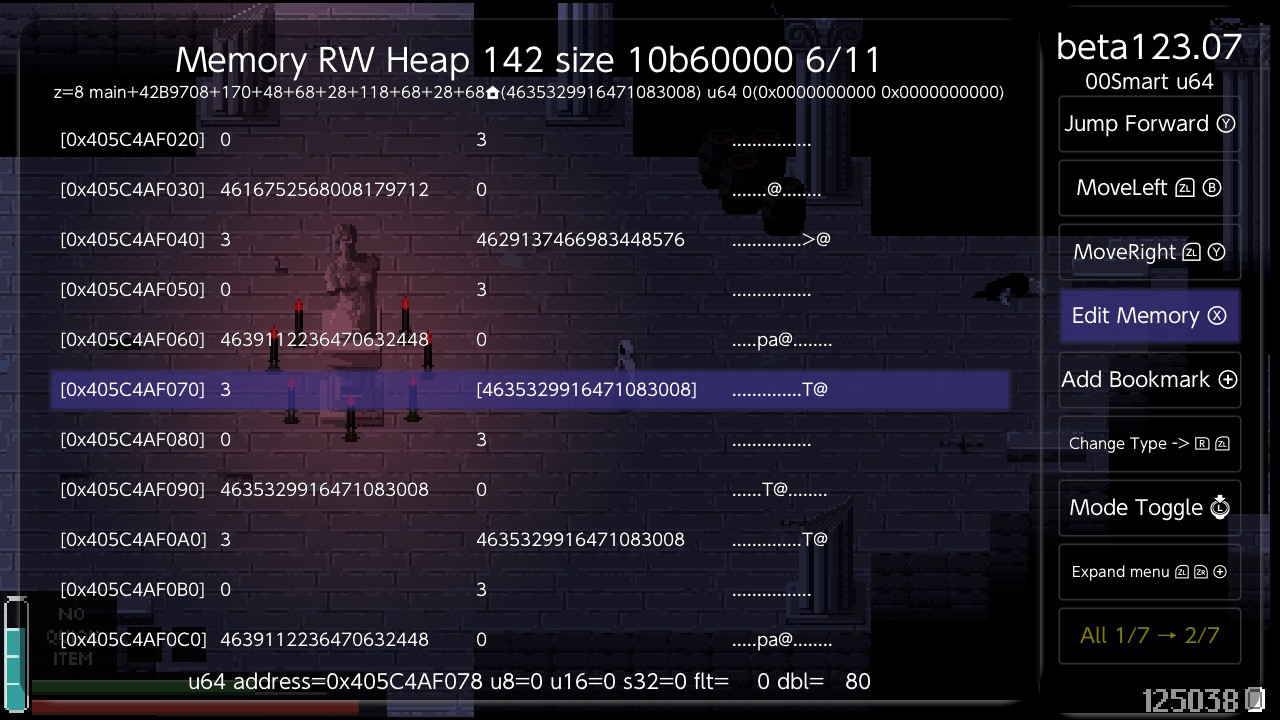
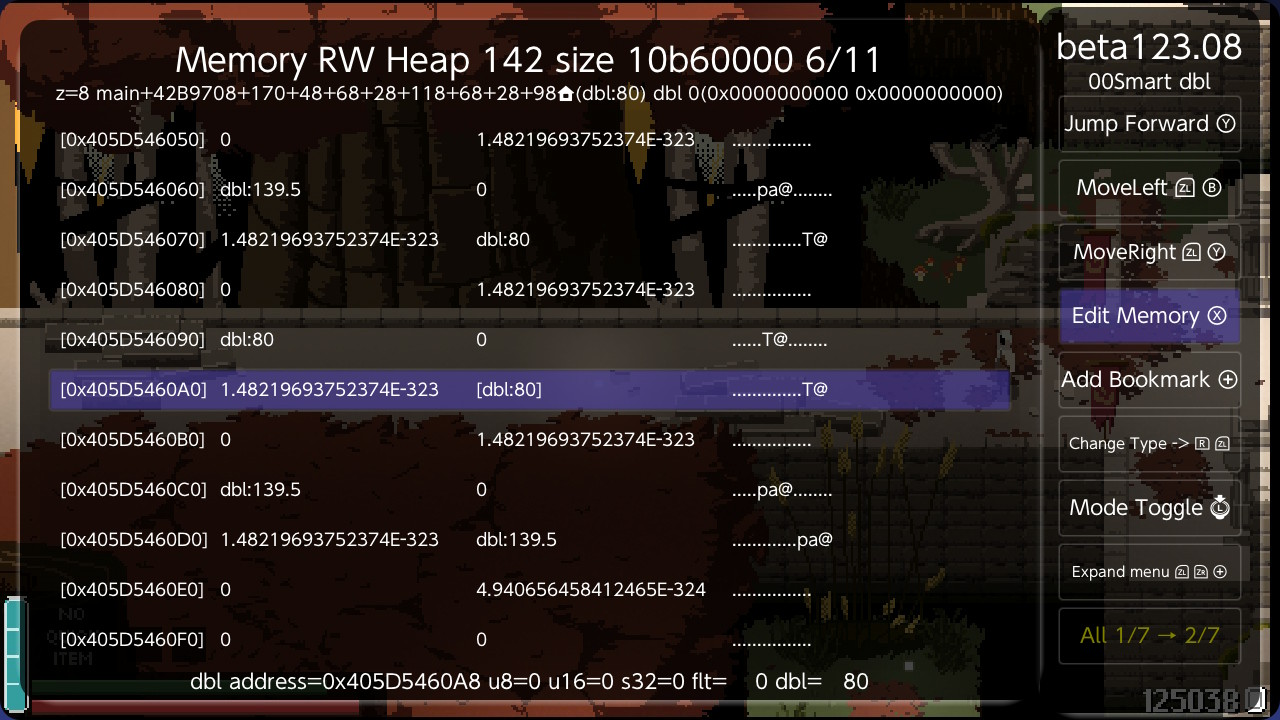
Fountains guide: Find chain for Godot, new Jump to target and Trace cheat

diff --git a/cheats/Fountains/README.md b/cheats/Fountains/README.md
@@ -1,6 +1,6 @@
 # Fountains -- making cheats with Breeze
 
-This guide shows how the Fountains cheats were made with Breeze, and how to check them yourself. You find a value with Search Manager, read the player's stats around it in Memory Explorer, and see how the cheats reach those stats in every room. Fountains is made with the **Godot** engine. The same approach works for other Godot games, which keep a script's variables the same way.
+This guide shows how the Fountains cheats were made with Breeze, and how to make them yourself. You find a value with Search Manager, read the player's stats around it in Memory Explorer, let **Find chain** find a route to it that works in every room, and make the cheat from that route. Fountains is made with the **Godot** engine. The same approach works for other Godot games, which keep a script's variables the same way.
 
 | | |
 |---|---|
@@ -9,7 +9,7 @@ This guide shows how the Fountains cheats were made with Breeze, and how to chec
 | Build ID | `CCE53AD937702726` |
 | Engine | Godot 4.5 (GDScript) |
 | Ready-made cheats | [`CCE53AD937702726.txt`](CCE53AD937702726.txt) |
-| Breeze | **beta123.07** or later |
+| Breeze | **beta123.08** or later; **Find chain** for Godot (step 3) needs the release after beta123.08 |
 
 If you only want the cheats, copy [`CCE53AD937702726.txt`](CCE53AD937702726.txt) to `sdmc:/switch/breeze/cheats/010063302712A000/` and press **Load Cheats from file** (Y) in Breeze's cheat menu.
 
@@ -75,9 +75,36 @@ Now `dbl:4` is the water just before the coins (entry 99), and `dbl:45` is the s
 
 You could freeze this address now, but it would not last. The player is rebuilt every time you change rooms or die, and the list moves to a new address. The cheats have to find the player afresh every time they run.
 
-## 3. How the cheats find the player
+## 3. Find chain: let Breeze find the way to the player
 
-Godot keeps a few always-loaded nodes called **autoloads** under the root of the scene tree. They load in a fixed order, so they are always at the same place. One of them, `Inventory`, keeps a reference to the player in its entry 11. So every cheat in the file starts with the same eight lines: from a fixed address in the game's code to the root, to `Inventory`, to the player, to the player's list.
+The address from step 1 is only good until you leave the room. A cheat needs a route from something that never moves to the player's list -- a pointer chain. In a Godot game, **Find chain** finds it.
+
+Go back to the candidates (B), put the cursor on the player's coins and press **Find chain** (Y+ZR). Breeze walks the game's own objects from the root of the scene tree -- the nodes, and the variables their scripts hold -- and lists every route it finds to the coins, cheapest first:
+
+![Find chain on the coins](guide/11_find_chain.jpg)
+
+How to read a row:
+
+| Part | Meaning |
+|---|---|
+| `/Inventory` | a node directly under the scene root, here the `Inventory` autoload |
+| `.v11>` | variable 11 of that node's script, which holds the next object |
+| `Player .v100` | variable 100 of the Player's script: the coins |
+| the number on the left | the cost of the route |
+
+Routes through **autoloads** -- nodes the game loads once and keeps for the whole session -- cost least, because they are the same in every room. Routes through the current room (here `GuardsDomainEast`) cost 8: the room is rebuilt when you leave it, and so is everything that route passes through.
+
+Take the top row and press **Make cheat** (X). Breeze asks for a name, then adds a cheat that writes the value the coins have now, switched off in the cheat list. **Bookmark** (Y) saves the route instead, and **Go to** (R) opens it in Memory Explorer.
+
+On Fountains Find chain took 3 seconds and looked at about 13,000 objects. The cheat it made kept the coins after a room change, when the player had been rebuilt at a new address.
+
+**Why not a pointer search?** It was tried. Two pointer searches on Fountains, one for the player's list and one for the player itself, both ran out of memory before reaching the `Inventory` route. All 419 chains they did find went through the current room, and none still worked after a room change. **Perform Clean up** removed all but 4 of them, and those 4 pointed at other objects. In a Godot game, use Find chain.
+
+**Other stats** are in the same list (the table above), so their cheats use the same route with a different last offset: entry number x `0x18` + 8. Or search for the value and run Find chain on it.
+
+## 4. How the cheats find the player
+
+Godot keeps a few always-loaded nodes called **autoloads** under the root of the scene tree. They load in a fixed order, so they are always at the same place. One of them, `Inventory`, keeps a reference to the player in its entry 11 -- the route Find chain lists first. So every cheat in the file starts with the same eight lines: from a fixed address in the game's code to the root, to `Inventory`, to the player, to the player's list.
 
 In the cheat menu, put the cursor on a cheat and press **Edit Cheat** (L):
 
@@ -117,19 +144,19 @@ and the attack and speed cheats write a double:
 680F0000 40674000 00000000        = 186.0
 ```
 
-## 4. Jump to target: see the player's stats live
+## 5. Jump to target and Trace cheat: see what a cheat does
 
-Breeze can follow a cheat's pointers for you. In Edit Cheats, put the cursor on the first `580F0000` line and press **Jump to target** (ZL+Right). Breeze follows the chain and opens Memory Explorer at the place the cheat reads, here max HP (entry 4):
+Breeze can run a cheat without switching it on and show you where it goes. In Edit Cheats, put the cursor on the first line and press **Jump to target** (ZL+Right). Breeze runs the cheat as a dry run -- it reads the game's memory but writes nothing -- and opens Memory Explorer at the address the cheat writes, here HP (entry 6), already shown as a double:
 
-![Jump to target lands on max HP](guide/04_jump_target.jpg)
+![Jump to target lands on HP](guide/04_jump_target.jpg)
 
-The line under the title is the whole chain, `main+42B9708+170+48+68+28+118+68+28+68`. Press **Change Type** (R+ZL) until the header says `dbl` to read the values:
+The line under the title is the whole chain, `main+42B9708+170+48+68+28+118+68+28+98`. The rows around it are the player's list: `139.5` (movement speed, with the Move Speed 1.5x cheat on), then `80`, `80`, `80` (max HP, a copy of it, and HP). From here you can scroll to any entry in the table above and use **Edit Memory** (X) to try a value out before you make a cheat for it.
 
-![The player's first entries as doubles](guide/05_hp_dbl.jpg)
+**Trace cheat** (ZR+Right) lists every step instead: each pointer the cheat follows (`hop`), each value it reads (`read`), and what it would write where (`write`). For Infinite Health that is eight hops down to the player's list, a read of max HP, and a write of it into HP. **Go to** (X) on any row opens that address.
 
-From the top: 4.5, 30, then `139.5` (movement speed, with the Move Speed 1.5x cheat on), then `80`, `80`, `80` (max HP, a copy of it, and HP). From here you can scroll down to any entry in the table above and use **Edit Memory** (X) to try a value out before you make a cheat for it.
+![Trace cheat on Infinite Health](guide/12_trace_cheat.jpg)
 
-## 5. Turn the cheats on
+## 6. Turn the cheats on
 
 Open **Cheat Menu** from the main screen. Tick the cheats you want with **Toggle Cheat** (X). A solid square means on:
 
@@ -153,6 +180,10 @@ Open **Cheat Menu** from the main screen. Tick the cheats you want with **Toggle
 | Search Manager | **X** | Start Search |
 | Search Manager | **L** | Show Candidates |
 | Candidates | **RS** | Memory Explorer |
+| Candidates | **Y+ZR** | Find chain |
+| Godot chains | **X** | Make cheat |
+| Godot chains | **Y** | Bookmark |
+| Godot chains | **R** | Go to |
 | Memory Explorer | **R+ZL** | Change Type |
 | Memory Explorer | **X** | Edit Memory |
 | Cheat Menu | **X** | Toggle Cheat |
@@ -160,4 +191,5 @@ Open **Cheat Menu** from the main screen. Tick the cheats you want with **Toggle
 | Cheat Menu | **L** | Edit Cheat |
 | Edit Cheats | **Down** | Toggle Disassembly |
 | Edit Cheats | **ZL+Right** | Jump to target |
+| Edit Cheats | **ZR+Right** | Trace cheat |
 | Any | **B** | Back |
